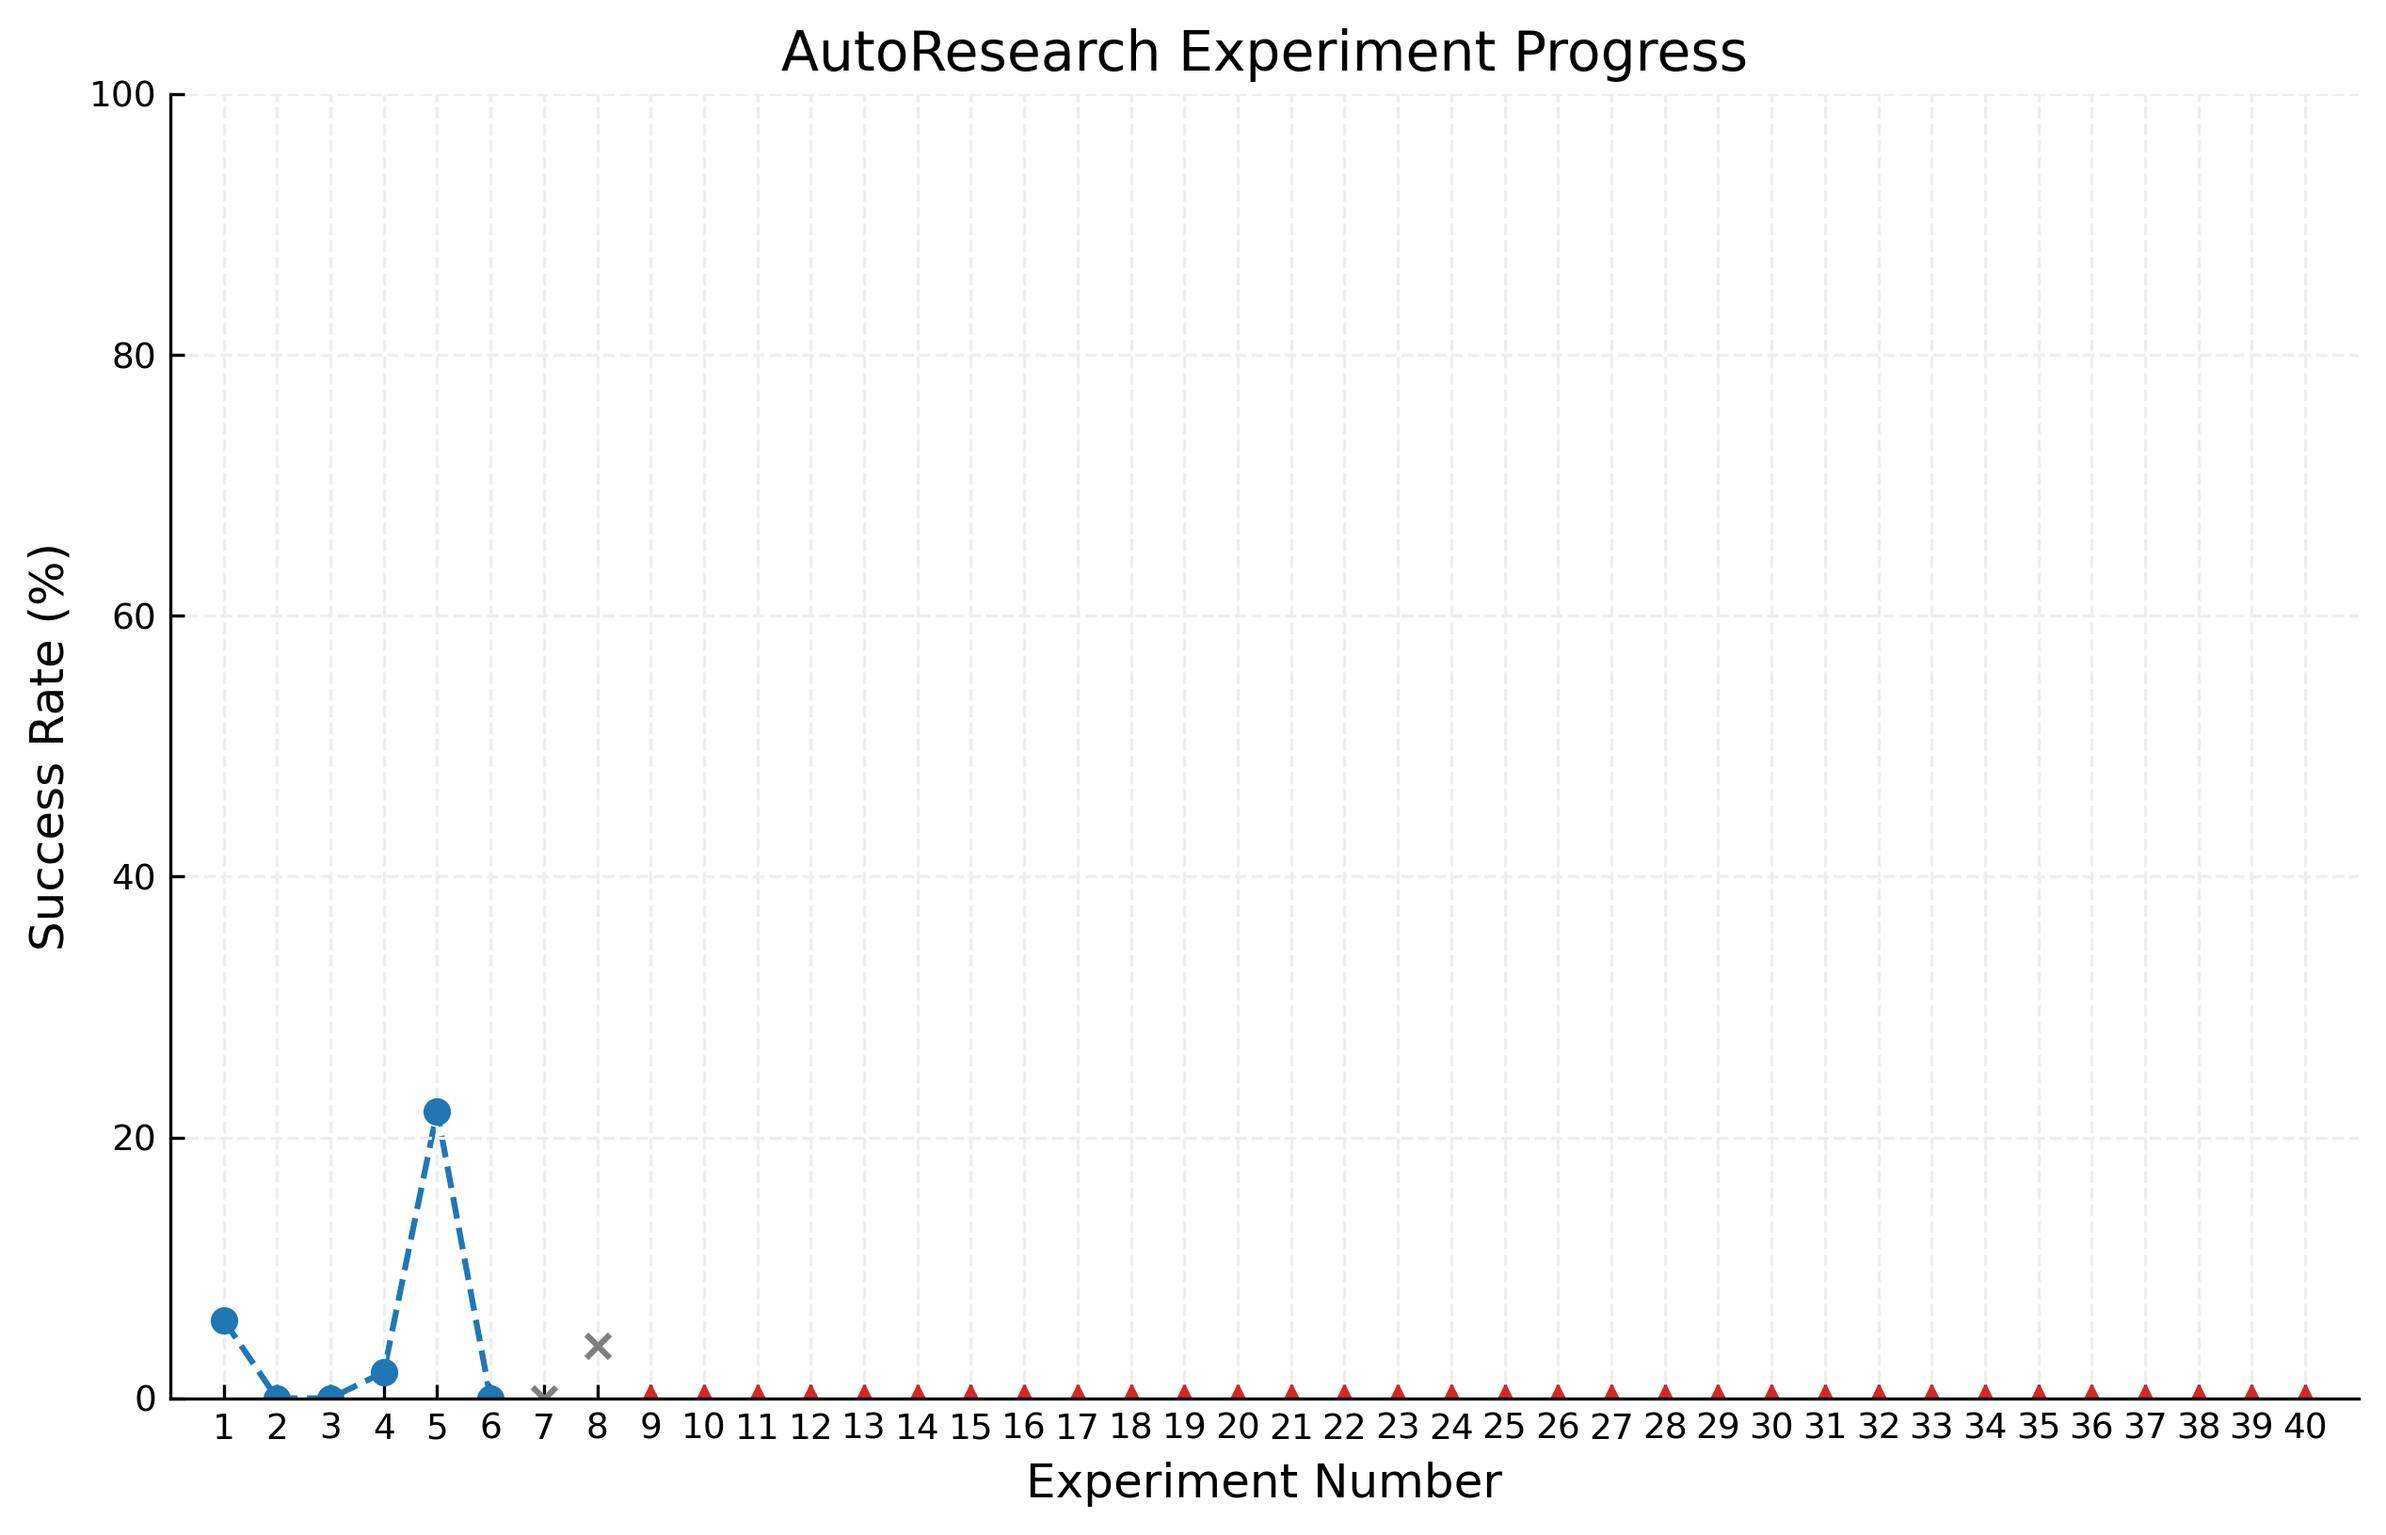
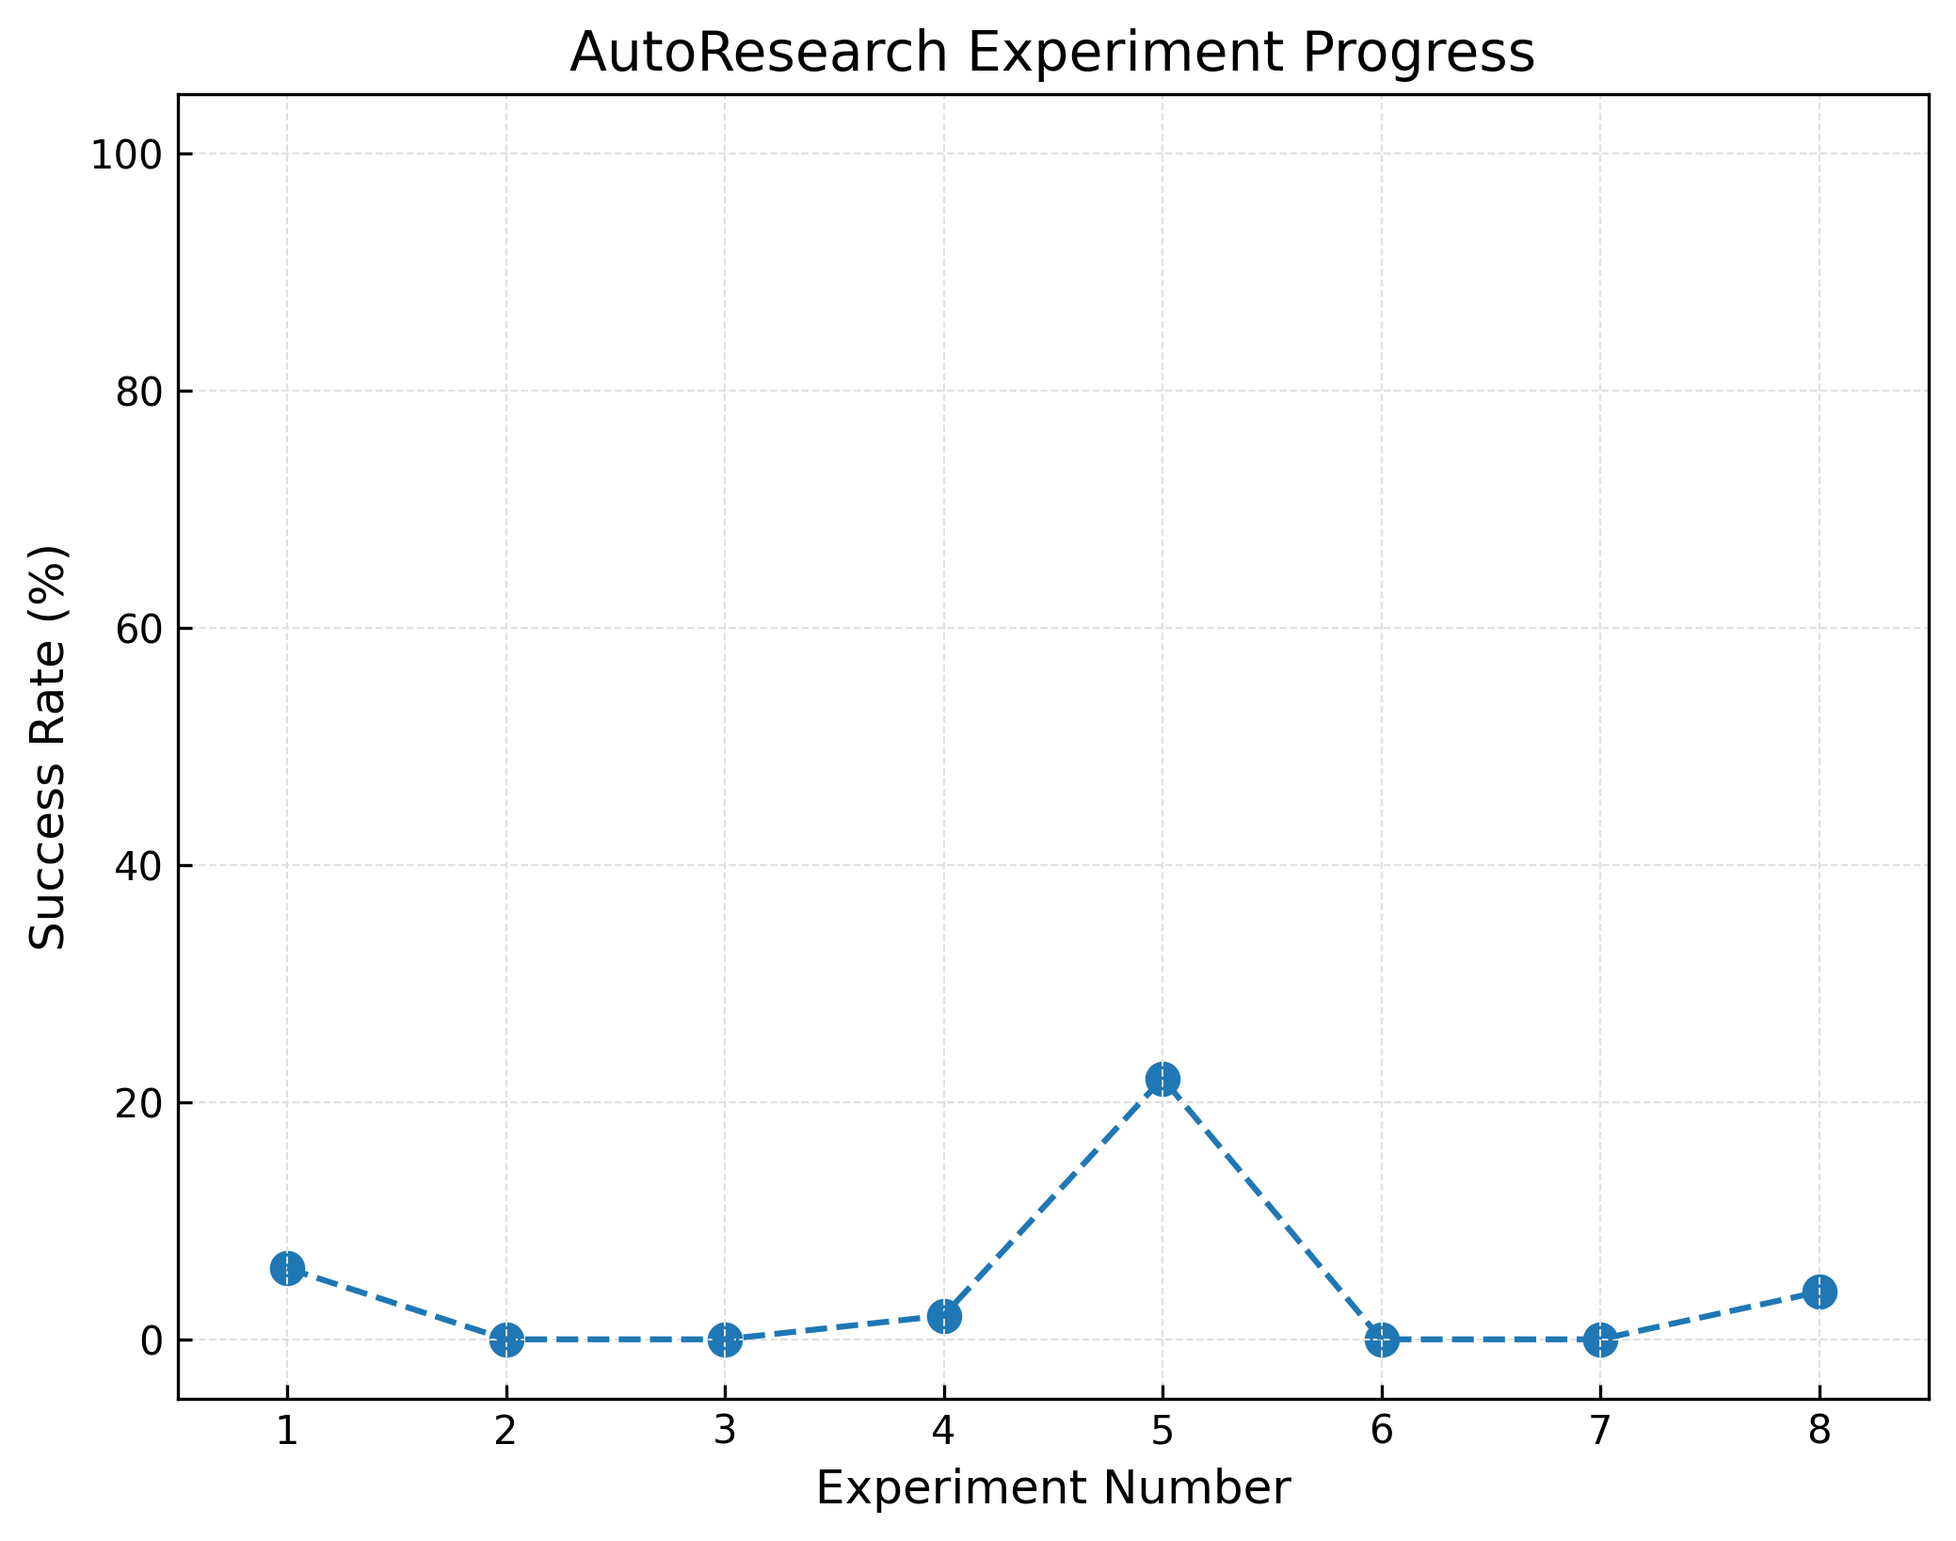
results: 8 experiments — auto-sync

diff --git a/RESULTS.md b/RESULTS.md
@@ -1,18 +1,18 @@
 # AutoResearch-MRL: Live Results
 
-> Last updated: **2026-03-15 15:40 UTC** | auto-generated every 5 min
+> Last updated: **2026-03-15 15:53 UTC** | auto-generated every 5 min
 
 ## Summary
 
 | Metric | Value |
 |--------|-------|
-| **Current Phase** | Phase 1: Baselines (7/9) |
-| Total experiments | 40 |
-| Baselines complete | 7 / 9 |
+| **Current Phase** | Phase 1: Baselines (8/9) |
+| Total experiments | 8 |
+| Baselines complete | 8 / 9 |
 | Improvements kept | 0 |
-| Discarded | 1 |
-| Crashes | 32 |
-| Total GPU time | 440 min (7.3 hrs) |
+| Discarded | 0 |
+| Crashes | 0 |
+| Total GPU time | 431 min (7.2 hrs) |
 
 ## Policy Comparison
 
@@ -29,6 +29,7 @@
 | act | AlohaTransferCube-v0 | 22.0% | 94.2 | 0.0 | 65 | 15213 |
 | vqbet | AlohaTransferCube-v0 | 0.0% | 0.0 | 0.0 | 65 | 7570 |
 | diffusion | AlohaInsertion-v0 | 0.0% | 6.3 | 0.0 | 65 | 11018 |
+| act | AlohaInsertion-v0 | 4.0% | 116.0 | 0.0 | 65 | 15616 |
 
 ## Training Efficiency
 
@@ -52,39 +53,7 @@
 | 5 | `ee4f0ea` | act | AlohaTransferCube-v0 | 22.0% | 94.2 | baseline | default act on AlohaTransferCube-v0 |
 | 6 | `5bf4180` | vqbet | AlohaTransferCube-v0 | 0.0% | 0.0 | baseline | default vqbet on AlohaTransferCube-v0 |
 | 7 | `4083c68` | diffusion | AlohaInsertion-v0 | 0.0% | 6.3 | baseline | default diffusion on AlohaInsertion-v0 |
-| 8 | `f0cd1ec` | act | AlohaInsertion-v0 | 4.0% | 116.0 | discard | default act on AlohaInsertion-v0 |
-| 9 | `b9f8d1b` | diffusion | PushT-v0 | 0.0% | 0.0 | CRASH | data_efficiency 10% (20 episodes) |
-| 10 | `ae1b3fe` | diffusion | PushT-v0 | 0.0% | 0.0 | CRASH | data_efficiency 25% (51 episodes) |
-| 11 | `a3784a0` | diffusion | PushT-v0 | 0.0% | 0.0 | CRASH | data_efficiency 50% (103 episodes) |
-| 12 | `c181b77` | diffusion | PushT-v0 | 0.0% | 0.0 | CRASH | data_efficiency 100% (206 episodes) |
-| 13 | `faa51f6` | act | PushT-v0 | 0.0% | 0.0 | CRASH | data_efficiency 10% (20 episodes) |
-| 14 | `fca5fbe` | act | PushT-v0 | 0.0% | 0.0 | CRASH | data_efficiency 25% (51 episodes) |
-| 15 | `d60d984` | act | PushT-v0 | 0.0% | 0.0 | CRASH | data_efficiency 50% (103 episodes) |
-| 16 | `dbae0d5` | act | PushT-v0 | 0.0% | 0.0 | CRASH | data_efficiency 100% (206 episodes) |
-| 17 | `11dd80a` | vqbet | PushT-v0 | 0.0% | 0.0 | CRASH | data_efficiency 10% (20 episodes) |
-| 18 | `6ce7061` | vqbet | PushT-v0 | 0.0% | 0.0 | CRASH | data_efficiency 25% (51 episodes) |
-| 19 | `34211ff` | vqbet | PushT-v0 | 0.0% | 0.0 | CRASH | data_efficiency 50% (103 episodes) |
-| 20 | `1744792` | vqbet | PushT-v0 | 0.0% | 0.0 | CRASH | data_efficiency 100% (206 episodes) |
-| 21 | `36c3ae2` | diffusion | PushT-v0 | 0.0% | 0.0 | CRASH | seed_sensitivity seed=2000 |
-| 22 | `51a6cdc` | diffusion | PushT-v0 | 0.0% | 0.0 | CRASH | seed_sensitivity seed=3000 |
-| 23 | `50f62bb` | diffusion | PushT-v0 | 0.0% | 0.0 | CRASH | seed_sensitivity seed=4000 |
-| 24 | `0613311` | diffusion | PushT-v0 | 0.0% | 0.0 | CRASH | seed_sensitivity seed=5000 |
-| 25 | `2769c46` | act | PushT-v0 | 0.0% | 0.0 | CRASH | seed_sensitivity seed=2000 |
-| 26 | `5ac84f6` | act | PushT-v0 | 0.0% | 0.0 | CRASH | seed_sensitivity seed=3000 |
-| 27 | `87a676d` | act | PushT-v0 | 0.0% | 0.0 | CRASH | seed_sensitivity seed=4000 |
-| 28 | `d6cc740` | act | PushT-v0 | 0.0% | 0.0 | CRASH | seed_sensitivity seed=5000 |
-| 29 | `c696178` | vqbet | PushT-v0 | 0.0% | 0.0 | CRASH | seed_sensitivity seed=2000 |
-| 30 | `80ce5de` | vqbet | PushT-v0 | 0.0% | 0.0 | CRASH | seed_sensitivity seed=3000 |
-| 31 | `0f0ce2e` | vqbet | PushT-v0 | 0.0% | 0.0 | CRASH | seed_sensitivity seed=4000 |
-| 32 | `41db9b5` | vqbet | PushT-v0 | 0.0% | 0.0 | CRASH | seed_sensitivity seed=5000 |
-| 33 | `7349fee` | diffusion | PushT-v0 | 0.0% | 0.0 | CRASH | horizon_sweep horizon=4 n_action_steps=2 |
-| 34 | `3e4b31f` | diffusion | PushT-v0 | 0.0% | 0.0 | CRASH | horizon_sweep horizon=8 n_action_steps=4 |
-| 35 | `c046a2d` | diffusion | PushT-v0 | 0.0% | 0.0 | CRASH | horizon_sweep horizon=16 n_action_steps=8 |
-| 36 | `f1a1ee9` | diffusion | PushT-v0 | 0.0% | 0.0 | CRASH | horizon_sweep horizon=32 n_action_steps=16 |
-| 37 | `e5ce06f` | act | PushT-v0 | 0.0% | 0.0 | CRASH | horizon_sweep horizon=4 n_action_steps=2 |
-| 38 | `c3f0cde` | act | PushT-v0 | 0.0% | 0.0 | CRASH | horizon_sweep horizon=8 n_action_steps=4 |
-| 39 | `13471b9` | act | PushT-v0 | 0.0% | 0.0 | CRASH | horizon_sweep horizon=16 n_action_steps=8 |
-| 40 | `f4e6736` | act | PushT-v0 | 0.0% | 0.0 | CRASH | horizon_sweep horizon=32 n_action_steps=16 |
+| 8 | `f0cd1ec` | act | AlohaInsertion-v0 | 4.0% | 116.0 | baseline | default act on AlohaInsertion-v0 |
 
 </details>
 
